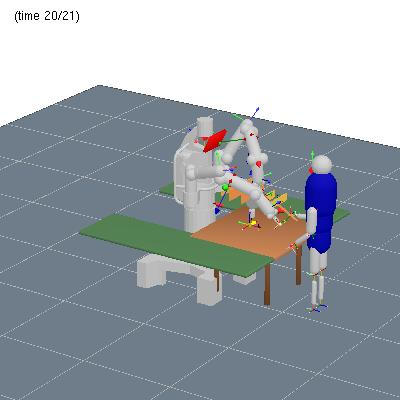
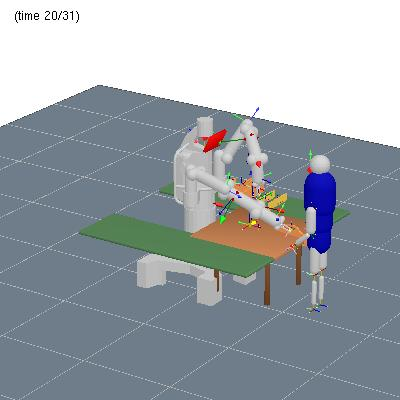
Presentation with 3 actions

Changed region(s): [[0.48, 0.36, 0.84, 0.63], [0.84, 0.45, 0.87, 0.51], [0.78, 0.75, 0.81, 0.78]]

diff --git a/index.html b/index.html
@@ -22,8 +22,12 @@
                     <img src="./images/keyframe0.jpg"/>
                 </section>
                 <section>
-                    The robot, with its right arm, hands over the toolbox handle to the agent's right hand.<br>
+                    The robot, with its right arm, places the toolbox handle on the front table.<br>
                     <img src="./images/keyframe1.jpg"/>
+                </section>
+                <section>
+                    The agent, with his or her right hand, grasps the toolbox handle.<br>
+                    <img src="./images/keyframe2.jpg"/>
                 </section>
             </div>
         </div>
